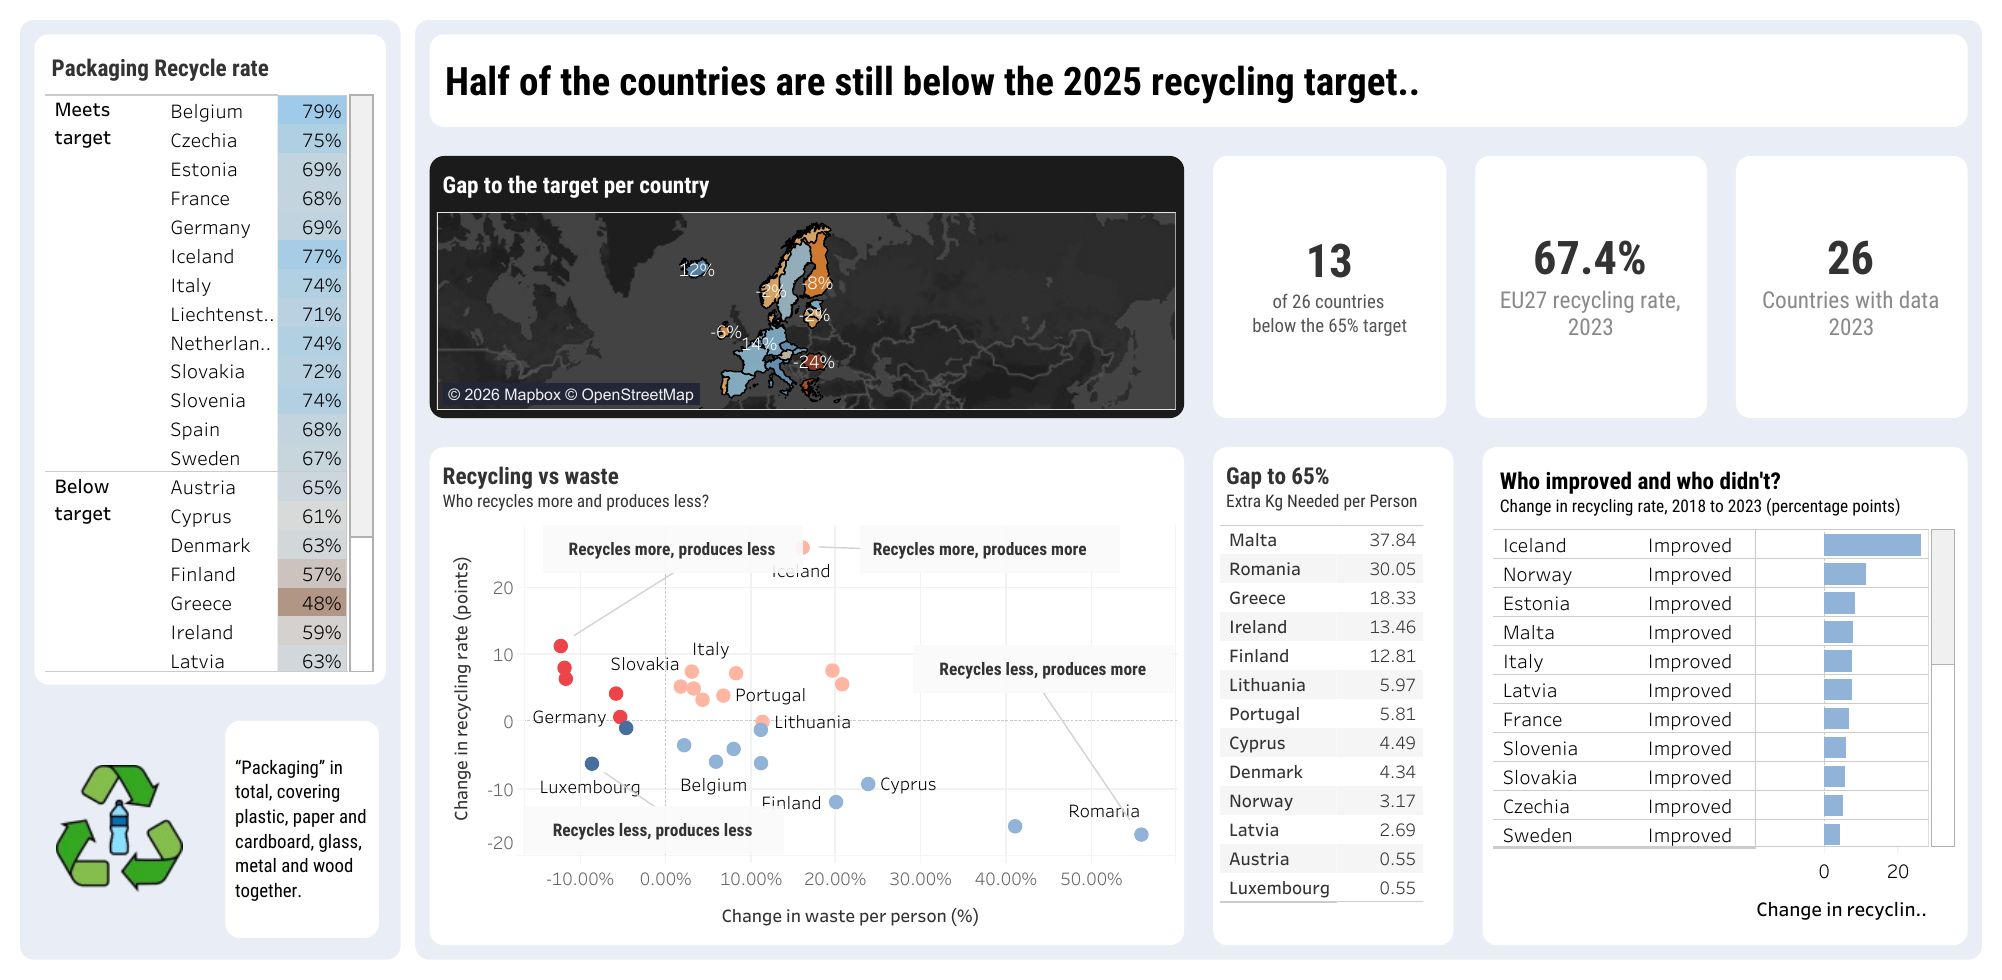
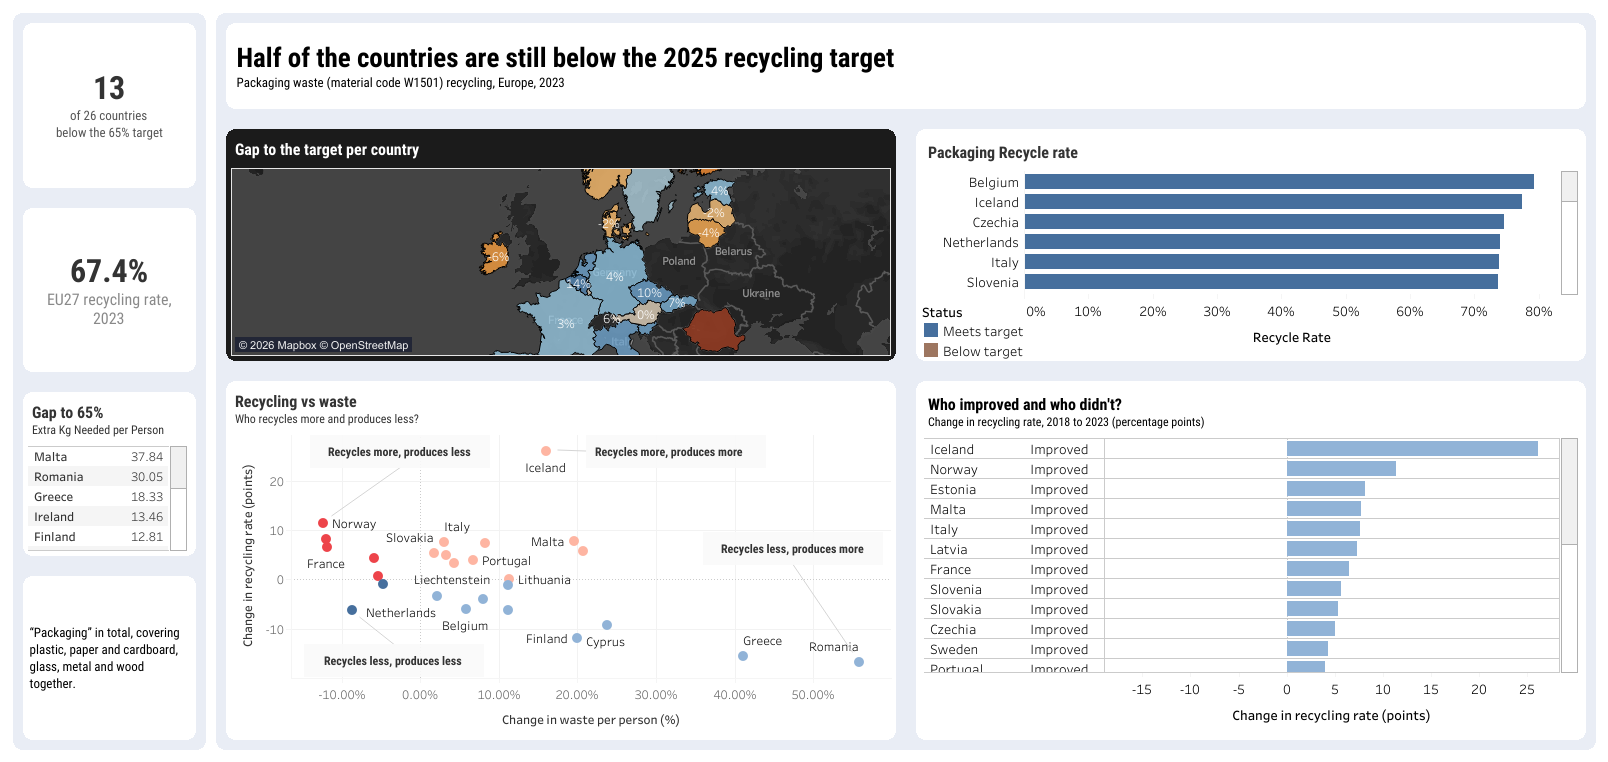
Update dashboard 1 image and description
Claude-Session: https://claude.ai/code/session_01GyJ1TG3orim1yxtbqAK7Ag

diff --git a/README.md b/README.md
@@ -213,8 +213,8 @@ More detail in [docs/destinations.md](docs/destinations.md).
 
 [![Dashboard 1](images/dashboard.png)](https://public.tableau.com/views/PackagingwasteinEurope/Dashboard-recycleandwaste?:language=en-GB&:sid=&:redirect=auth&:display_count=n&:origin=viz_share_link)
 
-- Headline numbers: 13 of 26 below target, EU27 at 67.4%, 26 countries with 2023 data
-- Recycling rate per country, split into "meets" and "below" target
+- Headline numbers: 13 of 26 below target, EU27 at 67.4%
+- Recycling rate per country, coloured by "meets" or "below" target
 - Map of the gap to 65%
 - Scatter: change in recycling rate vs change in waste per person, 2018–2023
 - Extra kg per person needed to reach 65%
